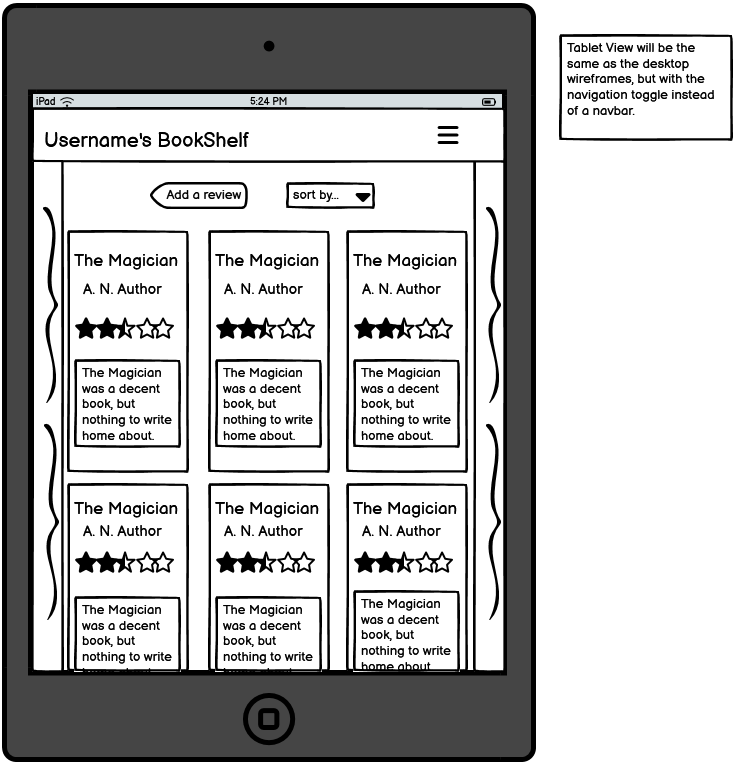
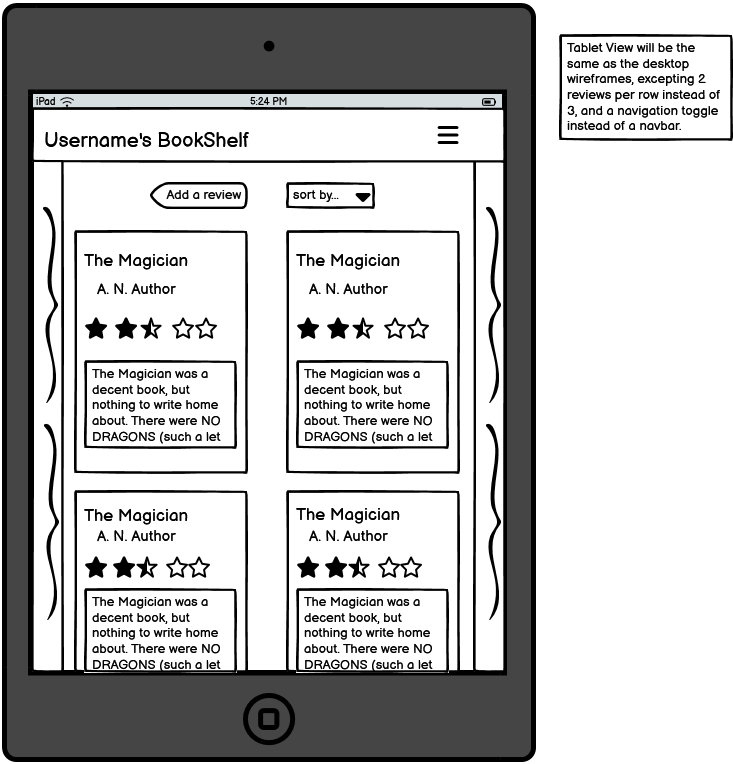
Add images to lighthouse section README

Changed region(s): [[0.09, 0.301, 0.6603, 0.9031], [0.7804, 0.0903, 0.9905, 0.1806]]

diff --git a/README.md b/README.md
@@ -218,7 +218,7 @@ I considered using a monospaced or typewriter style font but, on testing, this w
 
 #### Wireframes
 
-Changes from wireframes to the site - originally I had the mobile view include the decorative scrollwork down the sides. However, after testing I found the content to be too cramped with this included. 
+Changes from wireframes to the impemented site - originally I had the mobile view include the decorative scrollwork down the sides. However, after testing I found the content to be too cramped with this included.  
 
 
 <details>
@@ -352,14 +352,22 @@ Messages have a role="alert" set for screenreaders.
 
 I tested the main pages of my site: Homepage (while logged in, or logged out), User Review List, Add Review, Edit Review.
 
-Accessibility: 100
-SEO: 100
-Best Practices: 100
+Accessibility: 100  
+SEO: 100  
+Best Practices: 100  
+
+![SEO and Best Practices](documentation/SEO-best-practices.png)
+![Accessibility](documentation/lighthouse-accessibility.png)
 
 Performance: 93-97 (varied between pages)  
 Initially, my performance score was around 80. I made several changes: preloading images and css files, compressing images, using locally stored icons rather than Bootstrap Icons CDN, and optomising database queries, which then increased the scores.
 
-<!-- images -->
+Homepage:  
+![Performance - Homepage](documentation/Performance-AllReviews.png)
+My BookShelf:  
+![Performance - My BookShelf](documentation/Performance-UserReviews.png)
+Review Detail:  
+![Performance - Review Detail](documentation/Performance-ReviewDetail.png)
 
 ### Manual Tests
 
@@ -424,13 +432,15 @@ The form ensures:
 #### CSS
 
 I used the W3C CSS Validator and found no errors.  
-<!-- image -->
+
+![CSS Validation](documentation/css-validation.png)
 
 #### HTML
 
 I used the W3C HTML Validator.  
 Most pages had no errors, but my add_review page had an error where a form element was within a p element which is invalid HTML. I changed the p to a div and this resolved the issue.
-<!-- image -->
+
+![HTML Validation](documentation/HTML-validation.png)
 
 There are some errors generated from Django-allauth's form field element template, within the signup.html page.
 Although I had customised the signup.html template, the errors originate from django-allauth's elements HTML code, not any written by me. As this issue comes from third-party code, addressing it falls outside the scope of this project.
@@ -463,13 +473,14 @@ Error: No p element in scope but a p end tag seen.
 I used the JSHint Validator. I had an error for a missing semicolon, which I fixed. The linter gave me warnings for using "const" and template literals which are not supported in earlier (pre-ES6) versions of JavaScript. However, modern browsers fully support ES6 and it is best practice to use this, so I configured the linter to allow ES6 this removed the warnings. 
 
 Additionally, I had a warning for an undeclared variable ('bootstrap', referring to my Bootstrap modal). However, the Bootstrap JavaScript is correctly loaded in my base HTML template, and no errors appear in the browser console on pages using the modal. This warning is due to the static analysis of script.js in isolation and not an issue with the code or the project as a whole.
-<!-- image -->
+
+![JavaScript Validation](documentation/js-validation.png)
 
 #### Python
 
 I used Code Institute's Python Linter. I had some warnings for whitespace within blank lines, which I then fixed.
 
-<!-- image -->
+![Python Validation](documentation/Python-Validation.png)
 
 ## Deployment
 
